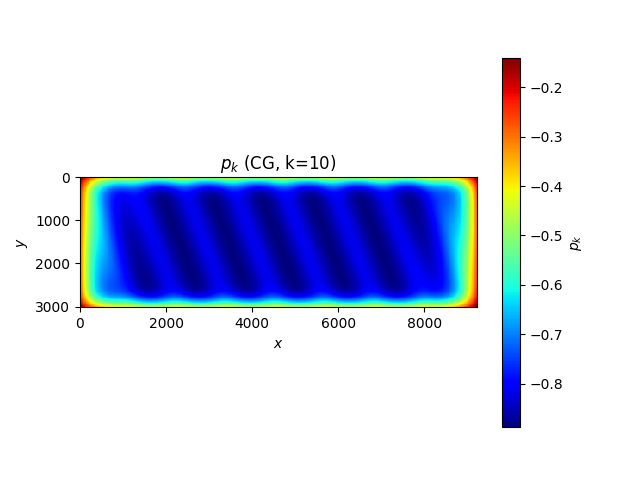
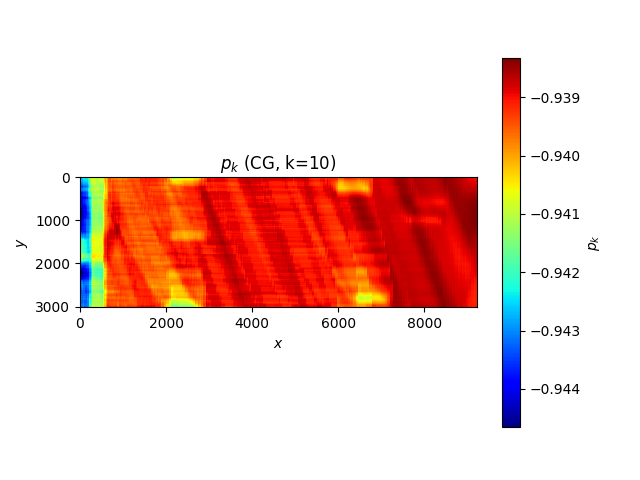
finish pb1 and 2 hw 5

diff --git a/HW05/utility.py b/HW05/utility.py
@@ -149,11 +149,18 @@ def get_l(s, recalculate=True, is_save=False):
 '''
 Optimization
 '''
-def get_r(t_obs, s_model, L):
-    return np.linalg.norm(np.subtract(
-        np.matmul(L, s_model),
-        t_obs
-    ))
+def get_r(t_obs, s_model, L, magnitude=True):
+    if magnitude:
+        r = np.linalg.norm(np.subtract(
+            np.matmul(L, s_model),
+            t_obs
+        ))
+    else:
+        r = np.subtract(
+            np.matmul(L, s_model),
+            t_obs
+        )
+    return r
 
 def grad(t_obs, s_model, L, norm=True):
     _grad = np.matmul(
@@ -167,9 +174,9 @@ def smooth_map(s_real, kernel_size=(100, 100), mode='gaussian', pad_model='edge'
         s_model = uniform_filter(s_real.reshape(settings.NX, settings.NY).T, size=kernel_size).reshape(settings.NX*settings.NY)
     elif mode == 'gaussian':
         if pad_model == 'zero':
-            s_real_padded = np.pad(s_real.reshape(settings.NX, settings.NY).T, (kernel_size,kernel_size), 'constant', constant_values=(0.0, 0.0))
+            s_real_padded = np.pad(s_real.reshape(settings.NX, settings.NY).T, kernel_size, 'constant', constant_values=(0.0, 0.0))
         else:
-            s_real_padded = np.pad(s_real.reshape(settings.NX, settings.NY).T, (kernel_size,kernel_size), pad_model)
+            s_real_padded = np.pad(s_real.reshape(settings.NX, settings.NY).T, kernel_size, pad_model)
         s_model = gaussian_filter(s_real_padded, sigma=kernel_size)[kernel_size[0]:-kernel_size[0], kernel_size[1]:-kernel_size[1]].reshape(settings.NX*settings.NY)
     return s_model
 
@@ -204,7 +211,7 @@ def get_proper_alpha(t_obs, s0, L0, pk, method='backtrack'):
         s_alpha1 = s0 + np.multiply(alpha1, pk)
         L_alpha1 = get_l(s_alpha1, recalculate=True)
         phi_alpha1 = get_r(t_obs, s_alpha1, L_alpha1)
-        if alpha1 > 1e-8 and phi_alpha1 <= phi_0 + C * alpha1 * phi_d0:
+        if alpha1 > 1e-6 and phi_alpha1 <= phi_0 + C * alpha1 * phi_d0:
             alphak = alpha1
         else:
             while True:
@@ -234,3 +241,11 @@ def get_proper_alpha(t_obs, s0, L0, pk, method='backtrack'):
         print('Method {} to find the step length does not support yet'.format(method))
         exit()
     return alphak
+'''
+    LM algorithm
+'''
+
+def get_jacobian(t_obs, s_model, pk):
+    _j = []
+    for j in range(t_obs.shape):
+        get_r(t_obs, s_model, L, magnitude=False)

diff --git a/HW05/pb3/regularization.py b/HW05/pb3/regularization.py
@@ -14,11 +14,11 @@ ALPHAS = np.logspace(-3.0, 3.0, num=20, base=10)
 def main():
     v_real = utility.readraw(filename=settings.FILENAME)
     s_real = 1.0/v_real
-    L = utility.get_l(s_real)
-    t_obs = np.matmul(L, s_real)
+    L_real = utility.get_l(s_real, recalculate=True)
+    t_obs = np.matmul(L_real, s_real)
 
-    s_real_padded = np.pad(s_real.reshape(settings.NX, settings.NY).T, (100,100), 'edge')
-    s_model = uniform_filter(s_real_padded, size=60)[100:-100, 100:-100].reshape(settings.NX*settings.NY)
+    s_model = utility.smooth_map(s_real, mode='uniform')
+    L = utility.get_l(s_model, recalculate=True)
 
     v_model = np.divide(1.0, s_model)
     plt.imshow(
@@ -36,6 +36,7 @@ def main():
 
     for alpha in ALPHAS:
         print(alpha)
+        r = utility.get_r(t_obs, s_model, L, magnitude=False)
         s_model = np.matmul(
             np.linalg.inv(
                 np.add(
@@ -43,10 +44,10 @@ def main():
                     np.multiply(alpha, np.identity(settings.NX*settings.NY, dtype=float))
                 )
             ),
-            np.matmul(L.T, t_obs)
+            np.matmul(L.T, r)
         )
+        L = utility.get_l(s_model, recalculate=True)
 
-        plt.clf()
         v_model = np.divide(1.0, s_model)
         plt.imshow(
             v_model.reshape(settings.NY, settings.NX), cmap='jet',
@@ -59,3 +60,4 @@ def main():
         plt.xlabel("$x$")
         plt.ylabel("$y$")
         plt.savefig(os.path.join('pb3'), 'model_v_alpha{0:.03d}.png'.format(alpha))
+        plt.clf()

diff --git a/HW05/pb1/sd.py b/HW05/pb1/sd.py
@@ -42,8 +42,8 @@ def main():
         while k < K_STOP and res > 1e-2:
             pk = np.negative(utility.grad(t_obs, s_model, L))
             pk = np.divide(pk, np.max(np.abs(pk)))
-            pk = utility.smooth_map(pk, mode='uniform', kernel_size=(10, 10))
-            # pk = utility.smooth_map(pk, mode='gaussian', kernel_size=(5, 5), pad_model='zero')
+            pk = utility.smooth_map(pk, mode='uniform', kernel_size=(10, 40))
+            # pk = utility.smooth_map(pk, mode='gaussian', kernel_size=(20, 20), pad_model='zero')
 
             plt.imshow(
                 pk.reshape(settings.NY, settings.NX), cmap='jet',
@@ -67,9 +67,8 @@ def main():
             LOG_RES.append(res)
             print(k, res, alphak, np.min(s_model), np.max(s_model))
             k += 1
-    except:
+    except KeyboardInterrupt:
         pass
-    
 
     plt.plot(LOG_RES)
     plt.xlabel('k')

diff --git a/HW05/pb2/cg.py b/HW05/pb2/cg.py
@@ -51,10 +51,10 @@ def main():
             gradk = utility.grad(t_obs, s_model, L)
             gradk1 = utility.grad(t_obs, s_model_new, L_new)
             betak1 = np.matmul(gradk1.T, gradk1)/np.matmul(gradk.T, gradk)
-
             pk = np.add(np.negative(gradk1), np.multiply(betak1, pk))
+
             pk = np.divide(pk, np.max(np.abs(pk)))
-            pk = utility.smooth_map(pk, mode='uniform', kernel_size=(10, 10))
+            pk = utility.smooth_map(pk, mode='uniform', kernel_size=(10, 40))
             # pk = utility.smooth_map(pk, mode='gaussian', kernel_size=(10, 10), pad_model='zero')
 
             plt.imshow(
@@ -86,7 +86,6 @@ def main():
     plt.ylabel('Residual')
     plt.title("Residual over iterations")
     plt.savefig(os.path.join('pb2', 'res.png'))
-
     plt.clf()
 
     v_model = np.divide(1.0, s_model)

diff --git a/HW05/main.py b/HW05/main.py
@@ -1,10 +1,10 @@
 from unit_test import eikonal, ray_path
 from pb1 import sd
 from pb2 import cg
-# from pb3 import regularization
+from pb3 import regularization
 
 if __name__ == "__main__":
-    sd.main()
+    # sd.main()
     # cg.main()
-    # regularization.main()
+    regularization.main()
     # eikonal.main()
